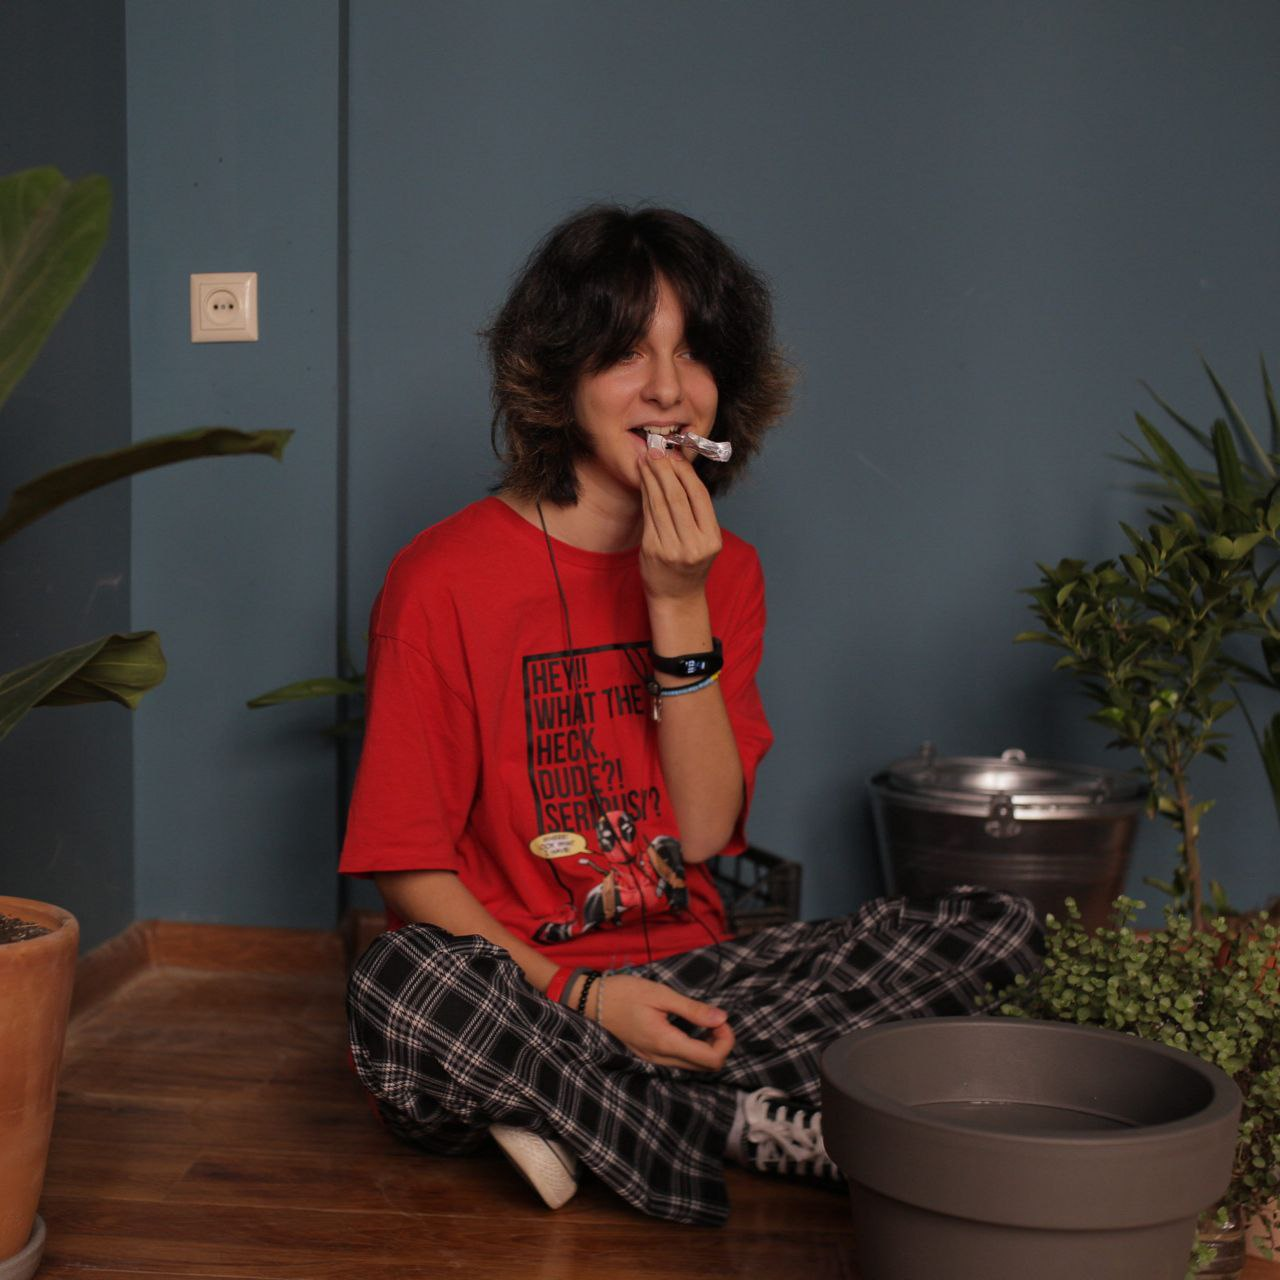
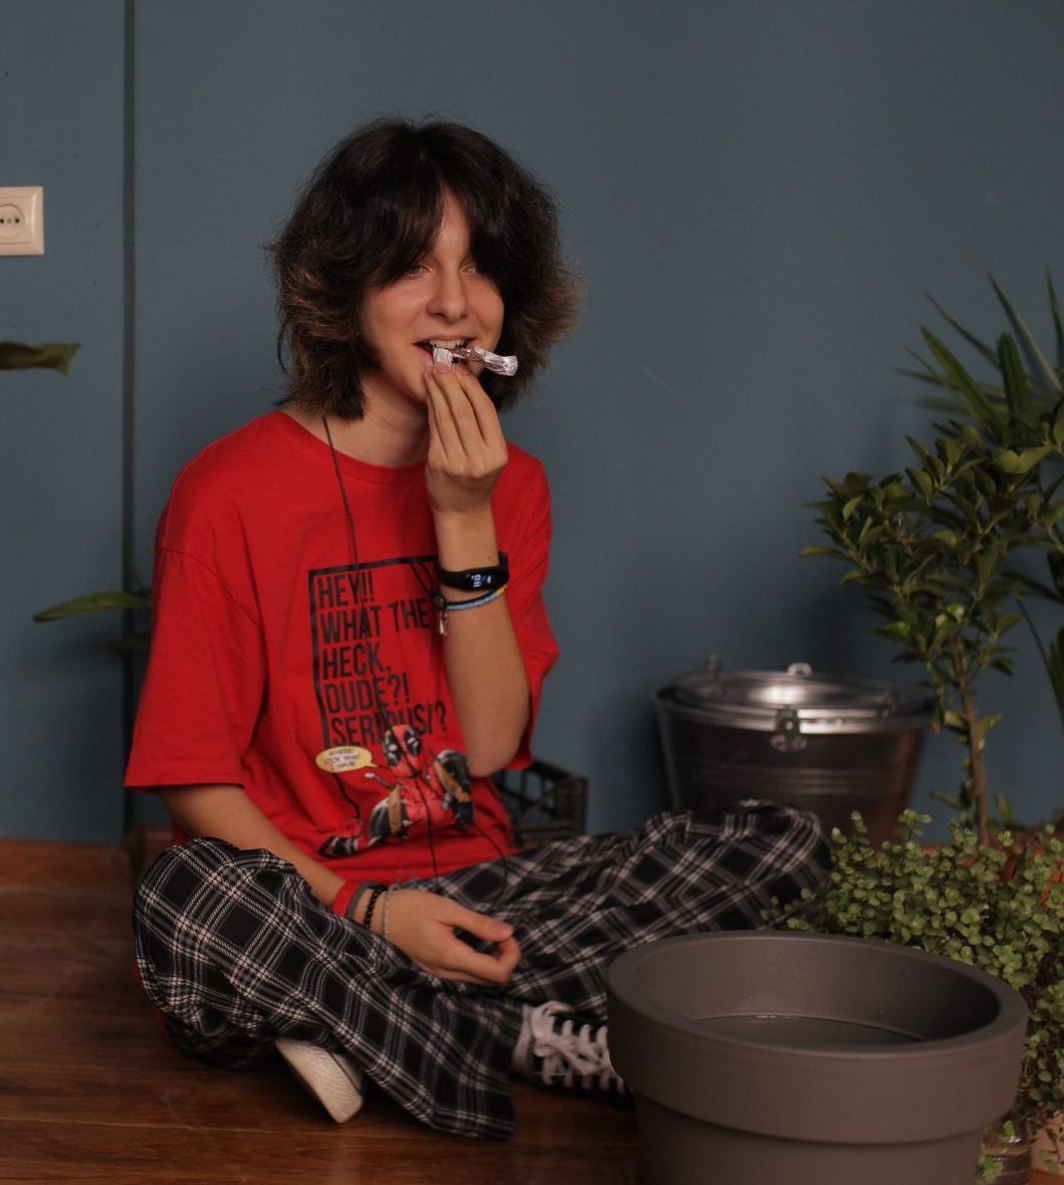
поправил страницу Саши
- добавил компонент картинки в ширину контента

diff --git a/ru/odessa-tbilisi.html b/ru/odessa-tbilisi.html
@@ -62,7 +62,7 @@
       </div>
       <img
         class="cover-image box-radius"
-        src="/images/sasha/vedro-i.jpg"
+        src="/images/sasha/kyshay.jpg"
         alt="" />
     </section>
     <!-- Конец -->
@@ -76,7 +76,7 @@
 
     <!-- Блок, когда вертикальная картинка справа, а текст слева -->
     <div class="vertical-photo-and-text">
-      <div class="text-box">
+      <div class="text-box mt-1">
         <p class="image-description-paragraph">24 февраля в 6 утра мне позвонила подруга и сказала: «Саша, началась война». Я сказала «Чтоооо?» и уснула дальше. Через несколько часов я в итоге проснулась и услышала взрывы. Я очень сильно испугалась — дома оставаться было страшно. На следующий день я стала уговаривать маму, чтобы мы поехали в Грузию. Моя мама — грузинка, и в Грузии у нас много родственников. Но она не была в восторге от этой идеи, потому что не знала, с кем оставить животных. Чтобы развеяться я пошла к соседке на ночёвку, а в это время мама упала с лестницы и сломала руку. Поэтому мама совсем ушла в отказ и не хотела куда-то ехать, но для моей тёти (одной из маминых сестёр) нет ничего невозможного — спустя неделю ей удалось уговорить маму. 18-19 марта мама велела мне собирать вещи. 20 марта утром мы поехали к Грузинскому посольству, примерно в 9:00 приехал папа с конфетами и колбасой, и мы попрощались.</p>
       </div>
       <figure class="image-box">
@@ -97,15 +97,12 @@
     <!-- Конец -->
 
     <!-- Видео -->
-    <section class="video">
-      <iframe
-        style="aspect-ratio: 16/9; width:100%;"
-        src="https://www.youtube.com/embed/9syP_5Of0bc"
-        title="YouTube video player"
-        frameborder="0"
-        allow="accelerometer; autoplay; clipboard-write; encrypted-media; gyroscope; picture-in-picture"
-        allowfullscreen>
-      </iframe>
+    <section class="video video-medium">
+      <iframe width="100%" height="166" scrolling="no" frameborder="no" allow="autoplay" src="https://w.soundcloud.com/player/?url=https%3A//api.soundcloud.com/tracks/175600582&color=%23001d3d&auto_play=false&hide_related=false&show_comments=true&show_user=true&show_reposts=false&show_teaser=true"></iframe>
+      <div style="font-size: 10px; color: #cccccc;line-break: anywhere;word-break: normal;overflow: hidden;white-space: nowrap;text-overflow: ellipsis; font-family: Interstate,Lucida Grande,Lucida Sans Unicode,Lucida Sans,Garuda,Verdana,Tahoma,sans-serif;font-weight: 100;">
+        <a href="https://soundcloud.com/arsen-mirzoyan" title="Arsen Mirzoyan" target="_blank" style="color: #cccccc; text-decoration: none;">Arsen Mirzoyan</a> · <a href="https://soundcloud.com/arsen-mirzoyan/0rtjlejutni0" title="Арсен Мірзоян - Вінні Пух" target="_blank" style="color: #cccccc; text-decoration: none;">Арсен Мірзоян - Вінні Пух</a>
+      </div>
+
     </section>
     <!-- Конец -->
     
@@ -117,7 +114,7 @@
     <!-- Конец -->
 
     <!-- Блок с картинкой во всю ширину и подписью -->
-    <section class="image-block-full-page">
+    <section class="image-block-medium">
       <img
         class="box-radius picture-full-page"
         src="/images/sasha/bolgaria.jpg"
@@ -134,7 +131,7 @@
     <!-- Конец -->
 
     <!-- Блок с картинкой во всю ширину и подписью -->
-    <section class="image-block-full-page">
+    <section class="image-block-medium">
       <img
         class="box-radius picture-full-page"
         src="/images/sasha/stambyl.jpg"
@@ -169,7 +166,7 @@
             width="100%"
             height="100%"
             preserveAspectRatio="xMidYMid slice"
-            xlink:href="../images/sasha/kyshay.jpg"
+            xlink:href="../images/sasha/vedro-i.jpg"
             clip-path="url(#star)"
           />
         </svg>

diff --git a/styles/style.css b/styles/style.css
@@ -39,7 +39,7 @@
 .heading-large {
   position: relative;
   width: fit-content;
-  padding: 4% 6% 5%;
+  padding: 2% 6% 3%;
   color: var(--text-color-main);
   font-size: var(--heading-size-l);
   line-height: 1;
@@ -310,7 +310,8 @@
 /* Секция с текстом лида */
 
 .article-lead {
-  margin-top: calc(4 * var(--size-unit));
+  margin-top: calc(5 * var(--size-unit));
+  margin-bottom: calc(3 * var(--size-unit));
 }
 
 .lead-paragraph {
@@ -569,6 +570,13 @@
 }
 .image-block-full-page .caption {
   margin-top: clamp(0.5rem, 0.4286rem + 0.3571vw, 0.75rem);
+}
+
+.image-block-medium {
+  width: calc(var(--content-section-width-main) / 100 * 65.84);
+  margin-top: calc(2 * var(--size-unit));
+  margin-left: auto;
+  margin-right: auto;
 }
 
 /* Конец */
@@ -1039,6 +1047,15 @@
 .video {
   margin-top: calc(2 * var(--size-unit));
   margin-bottom: calc(4 * var(--size-unit));
+  border-radius: var(--radius-main);
+  overflow: hidden;
+  font-size: 0;
+}
+
+.video-medium {
+  width: 65.84%;
+  margin-left: auto;
+  margin-right: auto;
 }
 /* Конец */
 
